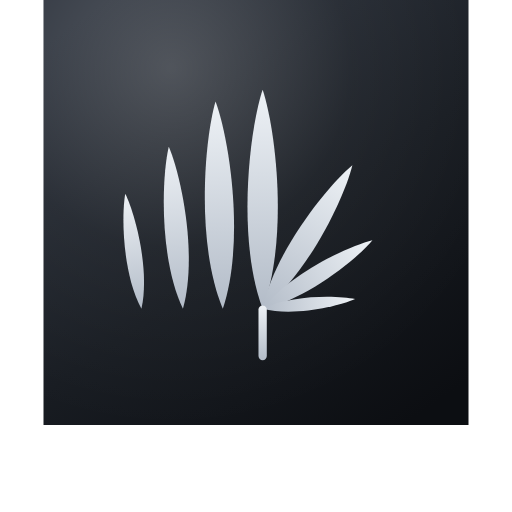
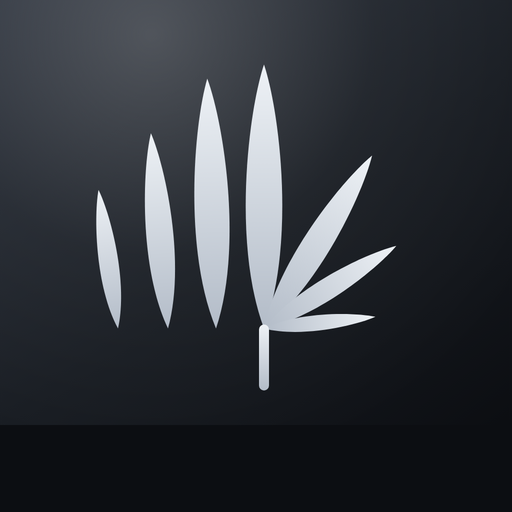
Fix bord blanc de l'icône : rendu plein cadre + tailles iOS exactes
Le PNG de l'icône avait des coins BLANCS (letterbox du rendu Chromium sur
fond de page blanc) — c'était ça le « contour blanc » sur l'écran d'accueil,
pas iOS. Re-rendu en 1024 sur fond sombre (plein cadre, zéro blanc) puis
downscalé proprement avec Pillow : apple-touch-icon 180, icône 192/512.
Manifest simplifié (PNG « any », plus de maskable) + apple-touch-icon
sizes=180x180. theme/background_color alignés sur le fond sombre.

Claude-Session: https://claude.ai/code/session_01HcjyRHAE4BVFEQHnyEntS3

diff --git a/index.html b/index.html
@@ -3,9 +3,9 @@
   <head>
     <meta charset="UTF-8" />
     <meta name="viewport" content="width=device-width, initial-scale=1.0, viewport-fit=cover" />
-    <meta name="theme-color" content="#0f1115" />
+    <meta name="theme-color" content="#0c0e12" />
     <link rel="icon" href="/icone.svg" type="image/svg+xml" />
-    <link rel="apple-touch-icon" href="/apple-touch-icon.png" />
+    <link rel="apple-touch-icon" sizes="180x180" href="/apple-touch-icon.png" />
     <link rel="manifest" href="/manifest.webmanifest" />
     <!-- Application web installable (plein écran sur tablette/mobile) -->
     <meta name="apple-mobile-web-app-capable" content="yes" />